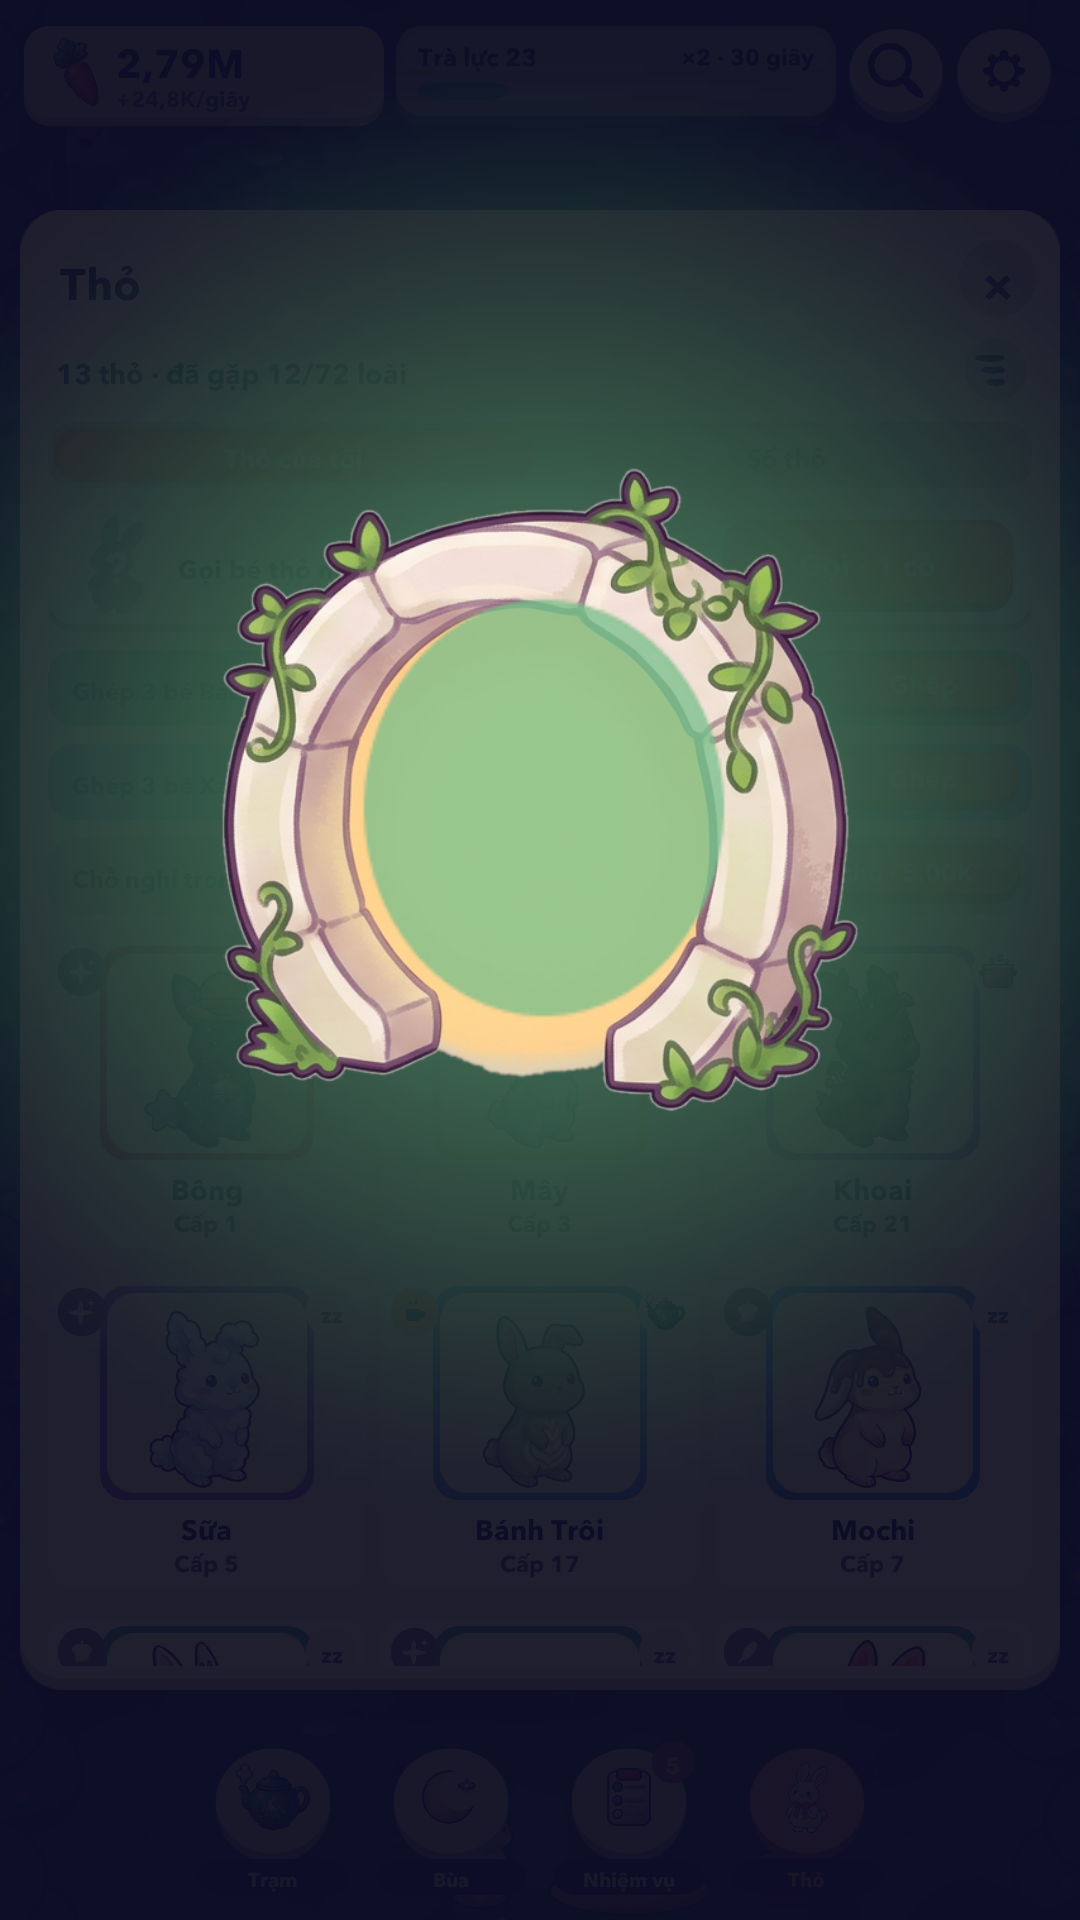
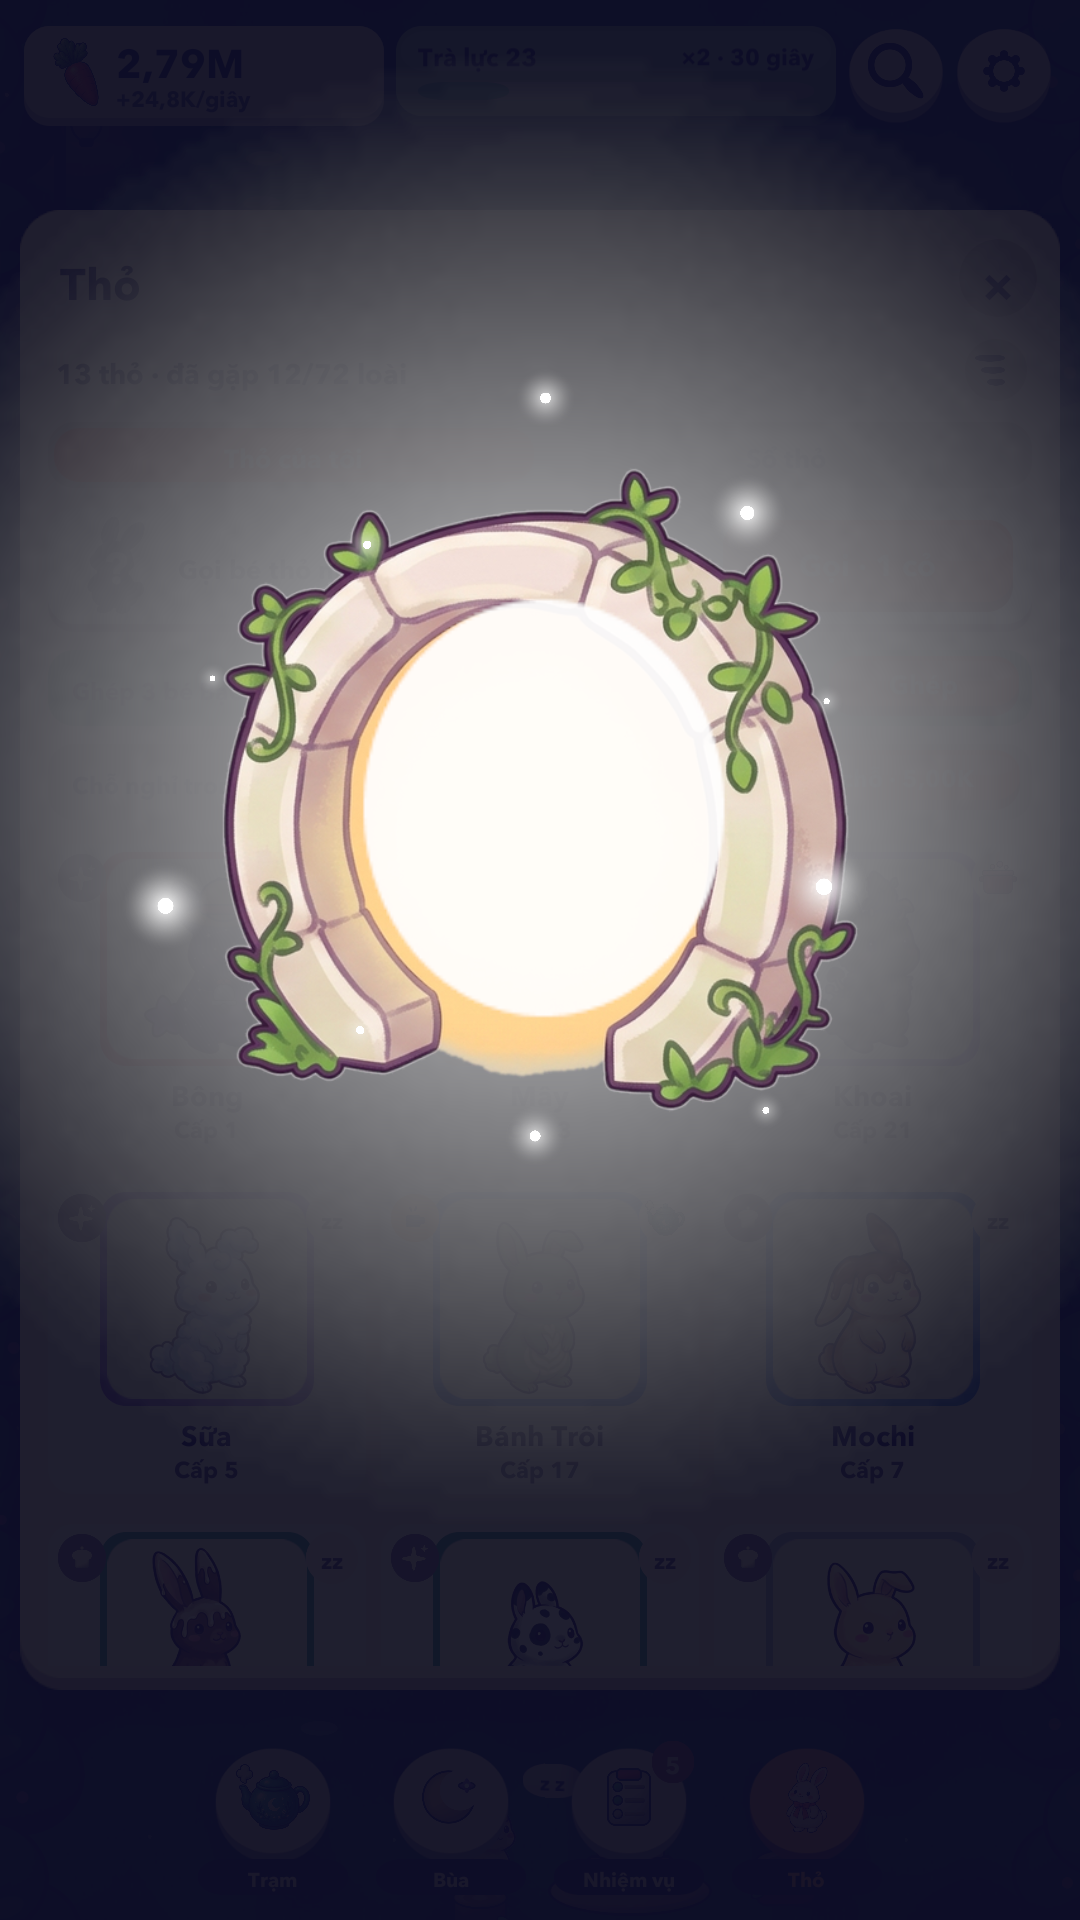
Silver arrivals get a white light and a shower of glints
The silver tier's grey barely tinted the gate, so it now gets white light, a
stronger halo and ten glints. Other tiers get four glints in their colour.
Adds the running PO report under docs/bao-cao-po.md.

diff --git a/Assets/VuonTra/Game/UI/SummonMomentView.cs b/Assets/VuonTra/Game/UI/SummonMomentView.cs
@@ -18,7 +18,10 @@ namespace VuonTra.Game.UI
         readonly Image _burst, _tint, _rabbitImage, _plate;
         readonly Text _name, _kind, _newText, _hintText;
         readonly CanvasGroup _textGroup;
+        readonly RectTransform[] _sparkles = new RectTransform[10];
+        readonly Image[] _sparkleImages = new Image[10];
         float _t;
+        bool _silver;
         Color _tier;
         bool _isNew;
 
@@ -44,6 +47,16 @@ namespace VuonTra.Game.UI
             else _gate.AddImage(catalog.Round, Palette.Lantern);
             // The light inside the gate takes the tier's colour.
             _tint = UiKit.Rect("Tint", _gate).Place(0.5f, 0.5f, 4, -18, 372, 430).AddImage(catalog.Round, Color.white);
+
+            // Glints round the gate. Every arrival has a few; silver, whose colour is nearly the gate's own, has many and bright.
+            for (int i = 0; i < _sparkles.Length; i++)
+            {
+                float angle = i * Mathf.PI * 2f / _sparkles.Length + 0.3f, reach = 300f + (i % 3) * 46f;
+                var dot = UiKit.Rect("Sparkle", overlay).Place(0.5f, 0.5f, Mathf.Cos(angle) * reach, 170f + Mathf.Sin(angle) * reach, 54, 54);
+                _sparkleImages[i] = dot.AddImage(catalog.Glow, Color.white);
+                UiKit.Rect("Core", dot).Place(0.5f, 0.5f, 0, 0, 10, 10).AddImage(catalog.Round, Color.white);
+                _sparkles[i] = dot;
+            }
 
             _rabbit = UiKit.Rect("Rabbit", overlay).Place(0.5f, 0.5f, 0, 60, 460, 460);
             _rabbit.pivot = new Vector2(0.5f, 0f);
@@ -78,8 +91,10 @@ namespace VuonTra.Game.UI
         }
 
         /// <param name="kindLine">The kind and tier, e.g. "Thỏ Sao · bậc Vàng".</param>
-        public void Show(Sprite art, string name, string kindLine, Color tier, bool isNew, string newLabel, string hint)
+        /// <param name="silver">The commonest tier: its light is white with a shower of glints instead of a colour.</param>
+        public void Show(Sprite art, string name, string kindLine, Color tier, bool isNew, string newLabel, string hint, bool silver = false)
         {
+            _silver = silver;
             _t = 0f;
             _tier = tier;
             _isNew = isNew;
@@ -129,8 +144,19 @@ namespace VuonTra.Game.UI
             // Its light swells to the tier's colour, then settles.
             float flash = Span(_t, GateIn, FlashEnd), pulse = Mathf.Sin(flash * Mathf.PI);
             float held = Mathf.Max(flash * 0.55f, pulse);
-            _tint.color = Palette.Alpha(_tier, held * 0.85f);
-            _burst.color = Palette.Alpha(_tier, 0.10f + pulse * 0.45f);
+            Color light = _silver ? Color.white : _tier;
+            _tint.color = Palette.Alpha(light, held * (_silver ? 0.95f : 0.85f));
+            _burst.color = Palette.Alpha(light, 0.10f + pulse * (_silver ? 0.6f : 0.45f));
+            int lit = _silver ? _sparkles.Length : 4;
+            for (int i = 0; i < _sparkles.Length; i++)
+            {
+                bool on = i < lit && _t > GateIn * 0.6f;
+                if (_sparkles[i].gameObject.activeSelf != on) _sparkles[i].gameObject.SetActive(on);
+                if (!on) continue;
+                float twinkle = 0.5f + 0.5f * Mathf.Sin(_t * (5f + i % 4) + i * 1.7f);
+                _sparkleImages[i].color = Palette.Alpha(_silver ? Color.white : Palette.Mix(_tier, Color.white, 0.5f), (0.25f + 0.75f * twinkle) * Mathf.Max(0.35f, pulse));
+                _sparkles[i].localScale = Vector3.one * (0.6f + twinkle * (_silver ? 1.1f : 0.6f));
+            }
             _burst.rectTransform.localScale = Vector3.one * (0.7f + pulse * 0.5f);
 
             // A shadow steps out of the gate towards us.

diff --git a/Assets/VuonTra/Game/UI/GardenScreen.cs b/Assets/VuonTra/Game/UI/GardenScreen.cs
@@ -1846,7 +1846,7 @@ namespace VuonTra.Game.UI
         {
             if (rabbit.FirstOfKind) _freshKinds.Add(Rabbits.KindOf(rabbit));
             Arrival.Show(Runner.Catalog.RabbitArt(rabbit), rabbit.Name, L10n.T("detail.kind", L10n.Kind(rabbit), L10n.Tier(rabbit.Tier)),
-                Palette.Tiers[rabbit.Tier], rabbit.FirstOfKind, L10n.T("summon.new"), L10n.T("summon.hint"));
+                Palette.Tiers[rabbit.Tier], rabbit.FirstOfKind, L10n.T("summon.new"), L10n.T("summon.hint"), rabbit.Tier == 0);
         }
 
         void OnLevelUp(long rabbitId)
